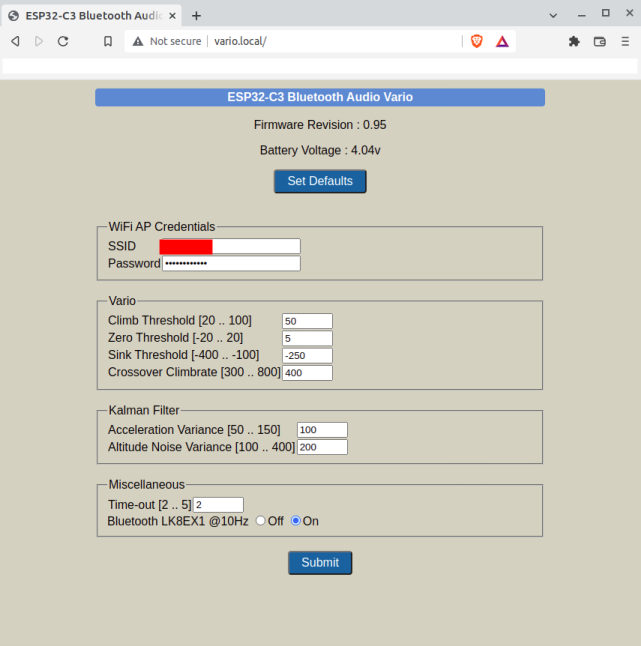
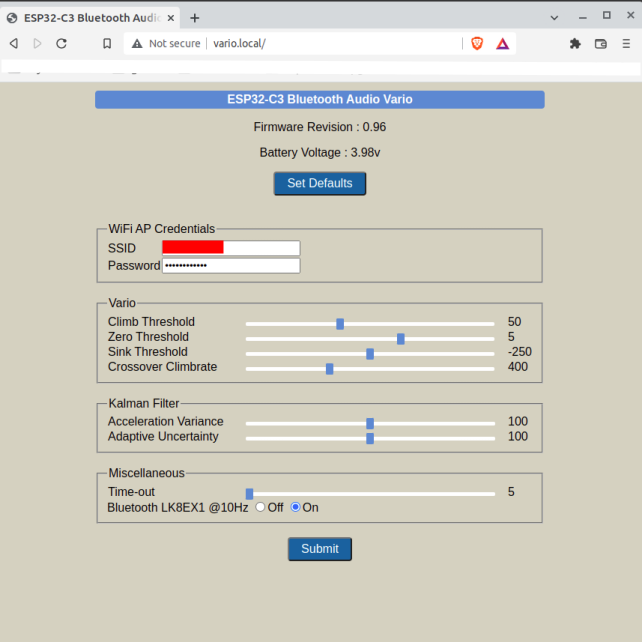
tweak config sliders

diff --git a/data/index.html b/data/index.html
@@ -33,8 +33,8 @@
 <fieldset><legend>Vario</legend>
 	<table>
 		<tr>
-		<td>Climb Threshold</td>
-		<td>
+		<td style="width:180px;">Climb Threshold</td>
+		<td style="width:350px;">
 		<div class="slidecontainer">
 		<input type="range" min="%CLIMB_MIN%" max="%CLIMB_MAX%" value="%CLIMB%" name="climb" class="slider" id="climb">
 		</div>  
@@ -75,8 +75,8 @@
 <fieldset><legend>Kalman Filter</legend>
 	<table>
 		<tr>
-		<td>Acceleration Variance</td>
-		<td>
+		<td style="width:180px;">Acceleration Variance</td>
+		<td style="width:350px;">
 		<div class="slidecontainer">
 		<input type="range" min="%KF_AVAR_MIN%" max="%KF_AVAR_MAX%" value="%KF_AVAR%" name="avar" class="slider" id="avar">
 		</div>  
@@ -99,8 +99,8 @@
 <fieldset><legend>Miscellaneous</legend>
 <table>
 <tr>
-  <td>Time-out</td>
-  <td> 
+  <td style="width:180px;">Time-out</td>
+  <td style="width:350px;"> 
   <div class="slidecontainer">
 	<input type="range" min="%TIMEOUT_MIN%" max="%TIMEOUT_MAX%" value="%TIMEOUT%" name="timeout" class="slider" id="timeout">
   </div>

diff --git a/data/style.css b/data/style.css
@@ -69,11 +69,11 @@ p {
 .slidecontainer {
 width: 100%;
 }
-
+	
 .slider {
 -webkit-appearance: none;
-width: 100%;
-height: 15px;
+width: 95%;
+height: 5px;
 border-radius: 2px;
 background: white;
 outline: none;
@@ -89,7 +89,7 @@ opacity: 1;
 .slider::-webkit-slider-thumb {
 -webkit-appearance: none;
 appearance: none;
-width: 15px;
+width: 10px;
 height: 15px;
 border-radius: 10%;
 background: #558ED5;

diff --git a/src/config.h b/src/config.h
@@ -49,7 +49,7 @@
 // to the average thermal core climbrate you expect for the site and conditions.
 #define VARIO_CROSSOVER_CPS_DEFAULT     400
 #define VARIO_CROSSOVER_CPS_MIN         300
-#define VARIO_CROSSOVER_CPS_MAX         800
+#define VARIO_CROSSOVER_CPS_MAX         600
 
 // Kalman filter configuration
 #define KF_ACCEL_VARIANCE_DEFAULT     100
@@ -100,9 +100,8 @@
 
 // Acceleration bias uncertainty is set low as the residual acceleration bias 
 // (post-calibration) is expected to have low variation/drift. It is further reduced
-// depending on the acceleration magnitude, as we want the
-// acceleration bias estimate to evolve only in close to zero 
-// acceleration environment.
+// depending on the acceleration magnitude, as we want the acceleration bias estimate 
+// to evolve ideally in a zero acceleration environment.
 #define KF_ACCELBIAS_VARIANCE   	0.005f
 
 // KF4 Acceleration Measurement Noise variance
@@ -110,12 +109,6 @@
 
 // KF4 Altitude Measurement Noise Variance
 #define KF_Z_MEAS_VARIANCE			200.0f
-
-// injects additional uncertainty depending on magnitude of acceleration
-// helps respond quickly to large accelerations while heavily filtering
-// in low or no acceleration situations.  Range : 0.0 (no adaptation)
-// to 1.0 (max adaptive factor)
-#define KF_ADAPTIVE_ACCEL_FACTOR	1.0f
 
 // If climbrate or sinkrate stays below this threshold for the configured
 // time interval, vario goes to sleep to conserve power

diff --git a/src/nvd.h b/src/nvd.h
@@ -29,7 +29,7 @@ typedef struct  {
 
 typedef struct  {
 	int16_t  accelVariance; // environmental acceleration disturbance variance, divided by 1000
-	int16_t  kAdapt; // adaptive noise injection factor (0-100)
+	int16_t  kAdapt; // adaptive uncertainty injection factor
 	} KALMAN_FILTER_PARAMS_t;
 
 typedef struct  {
